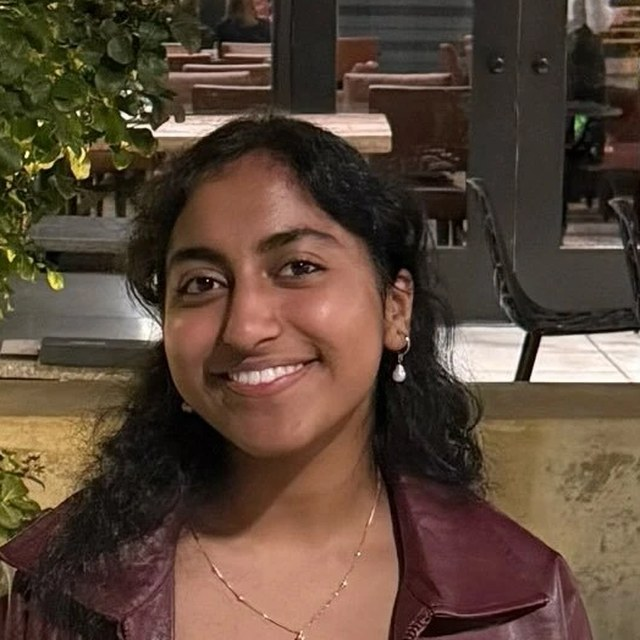
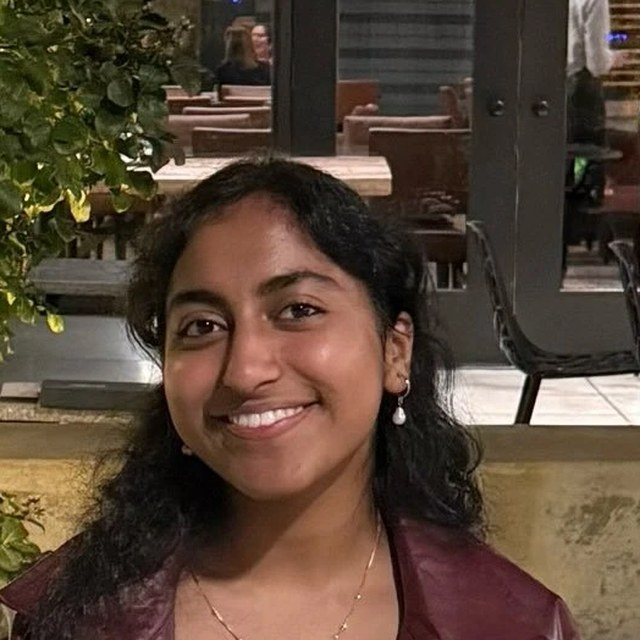
Raise the portrait crop, and add out of context

diff --git a/index.html b/index.html
@@ -16,7 +16,7 @@ description: >-
 
   <p>i've been fortunate to work in exciting research labs. in high school i spent two summers at the <a href="https://www.seattlechildrens.org/directory/siobhan-pattwell/" target="_blank" rel="noopener">pattwell lab</a> in the <a href="https://www.seattlechildrens.org/research/centers-programs/childhood-cancer/" target="_blank" rel="noopener">ben towne center for childhood cancer</a> at seattle children's. at caltech i've worked jointly with the <a href="https://www.vision.caltech.edu/" target="_blank" rel="noopener">perona lab</a> and <a href="https://pachterlab.github.io/" target="_blank" rel="noopener">pachter lab</a>, and i did a summer research fellowship on clinical neurotech with <a href="https://radiology.stanford.edu/" target="_blank" rel="noopener">stanford radiology</a>. i'm advised by <a href="https://meisterlab.caltech.edu/" target="_blank" rel="noopener">markus meister</a>.<br>currently, i'm a part of the <a href="https://www.yisongyue.com/about" target="_blank" rel="noopener">yue crew</a>, working on video encoder architectures, and i'm working on computational de novo enzyme design with the <a href="https://fhalab.caltech.edu/" target="_blank" rel="noopener">arnold lab</a>.</p>
 
-  <p>in my free time, i love listening to music<sup id="ref2"><a href="#fn2">2</a></sup> and dj-ing, <a href="https://www.instagram.com/sundisinghs/" target="_blank" rel="noopener">singing and songwriting</a><sup id="ref3"><a href="#fn3">3</a></sup>, and playing tennis<sup id="ref4"><a href="#fn4">4</a></sup>. i also enjoy being a <a href="http://wellness.caltech.edu/advocate-programs/peer-advocate" target="_blank" rel="noopener">peer advocate</a> at caltech.</p>
+  <p>in my free time, i love listening to music<sup id="ref2"><a href="#fn2">2</a></sup> and dj-ing, <a href="https://www.instagram.com/sundisinghs/" target="_blank" rel="noopener">singing and songwriting</a><sup id="ref3"><a href="#fn3">3</a></sup>, and playing tennis<sup id="ref4"><a href="#fn4">4</a></sup>. i sing in caltech's a cappella group, <a href="https://www.instagram.com/ooc.caltech/" target="_blank" rel="noopener">out of context</a>. i also enjoy being a <a href="http://wellness.caltech.edu/advocate-programs/peer-advocate" target="_blank" rel="noopener">peer advocate</a> at caltech.</p>
 
   <p>i like doing impactful work on interesting problems that challenge me. retaining my childlike curiosity, putting my soul into things, and being a good human especially matter to me. i love being surrounded by creativity.</p>
 
